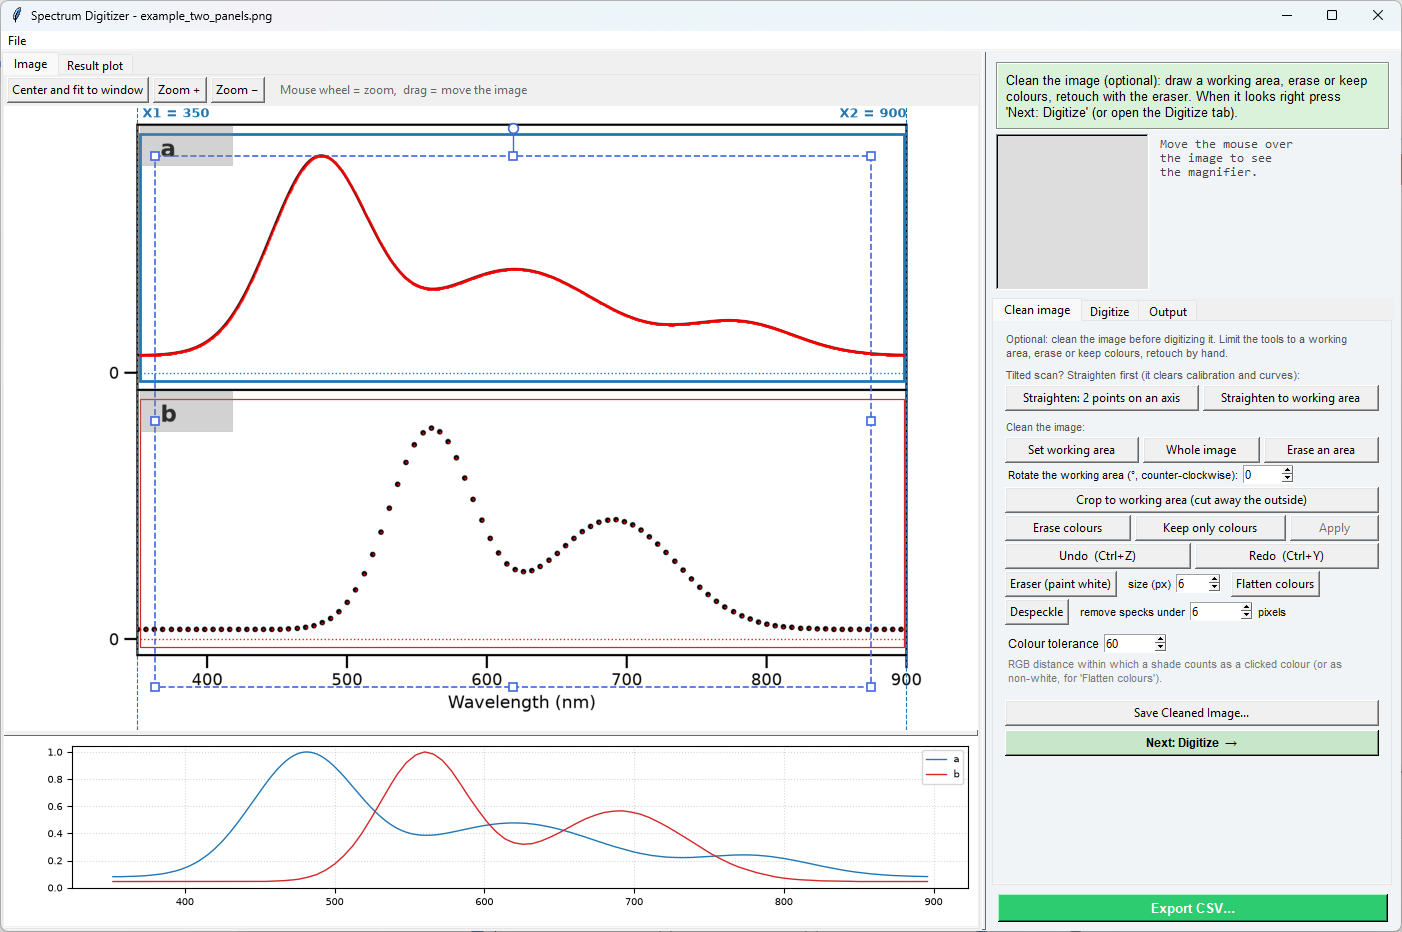
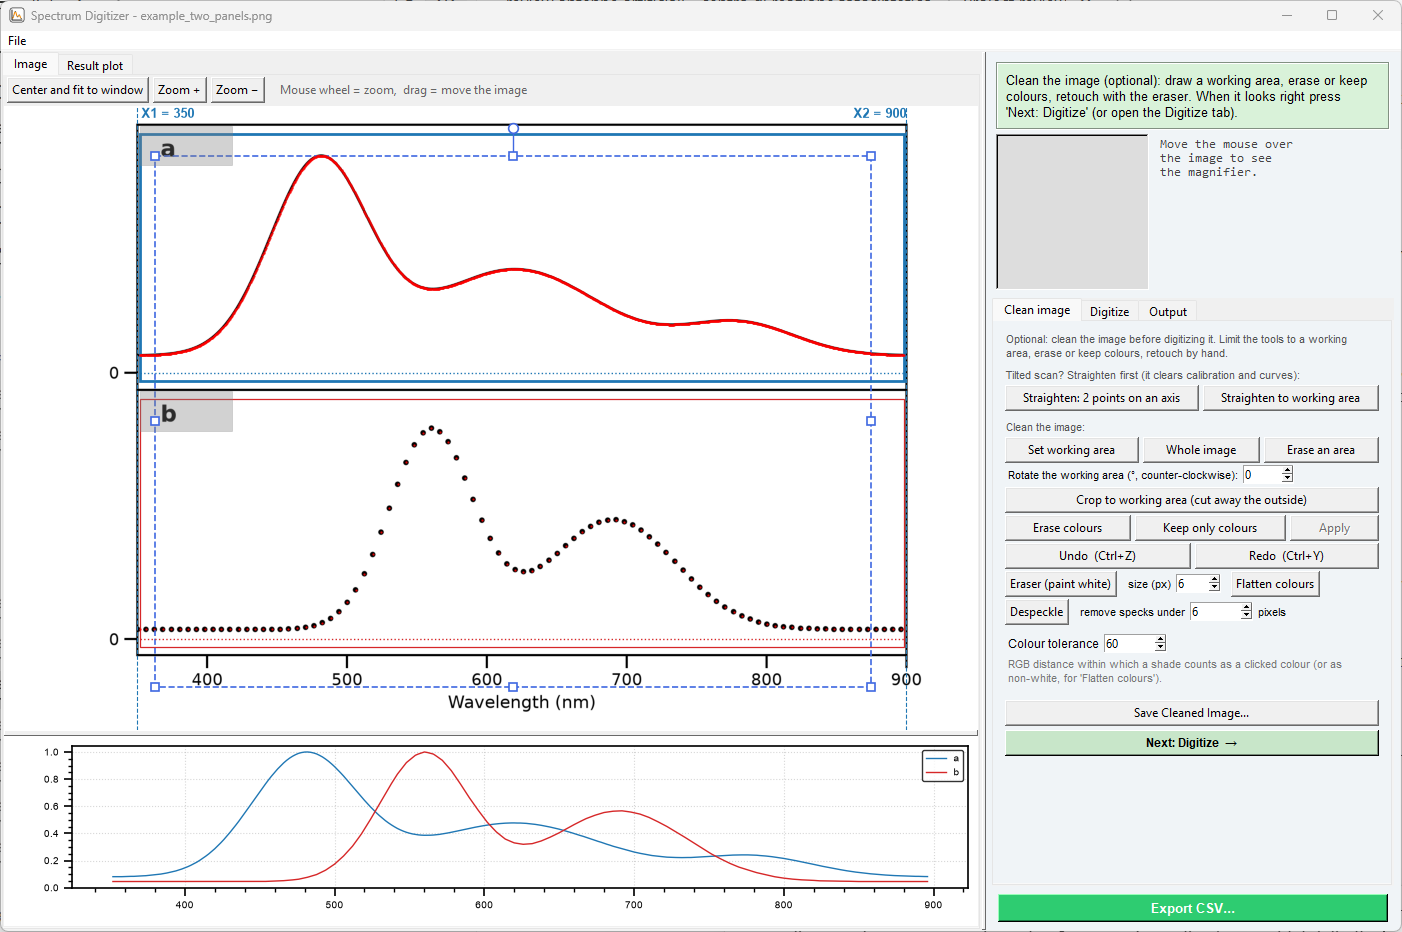
Use PlotStyleKit through its integration module: Origin look, Save Figure, Edit Figure
- The program carries the common PlotStyleKit bootstrap; when PlotStyleKit is not found it
  warns and asks for the folder, with a Cancel that is remembered; File > PlotStyleKit...
  changes it later
- With it: the result plot has the Origin look, and File > Save Figure Image (PNG, PDF, SVG),
  Save Figure (pickle) and Edit Figure work on a title-less figure at 9 x 6.75 cm
- Without it: plain matplotlib look, the figure saved as drawn, Edit Figure offers to locate
  PlotStyleKit
- Screenshots refreshed (icon in the title bar, styled result plot); README and CLAUDE.md updated

diff --git a/README.md b/README.md
@@ -71,6 +71,15 @@ can be placed precisely (it also shows the pixel and, once calibrated, the X/Y v
   - *Erase an area* — drag a box over a legend or a panel letter: it is painted white for all curves
     (*Undo* restores it). Do this first, so the legend is never mistaken for part of a spectrum.
 - **Tab 'Digitize'.** The steps below.
+- **Figures for a paper (PlotStyleKit).** The result plot has the Origin look of
+  [PlotStyleKit](https://github.com/milanone/PlotStyleKit) (Arial, full box, outward ticks, no grid) and the File menu has
+  *Save Figure Image (PNG, PDF, SVG)...*, *Save Figure (pickle)...* and *Edit Figure...*: the figure is redrawn at the
+  publication size (9 x 6.75 cm, 300 dpi) without a title and handed to the PlotStyleKit editor or to a file. PlotStyleKit is
+  optional: the program looks for it next to itself (`../PlotStyleKit`), in `~/progetti/PlotStyleKit`, in the folder the
+  environment variable `PLOTSTYLEKIT` names, or in the folder you chose the last time. If it is not found the program says so
+  at start and asks for the folder, with *Cancel* for going without (it will not ask again; *File > PlotStyleKit...* changes
+  that). Without it the plot keeps a plain matplotlib look, *Save Figure* writes the figure as drawn (no preset size, no
+  restyling), and *Edit Figure* offers to locate PlotStyleKit.
 - **Check grid.** In the Digitize tab, *Show check grid on the image* draws round-valued lines of the calibration over the image (X always, Y when it is calibrated), labelled with their values: if they do not meet the plot's own ticks, the calibration is off.
 - **1. Axes.** Press *Pick* next to *X point 1*, click a tick of known value, then type its value in the
   box; do the same for *X point 2* on a tick far from the first. The Y axis is optional (see below).

diff --git a/CLAUDE.md b/CLAUDE.md
@@ -161,7 +161,16 @@ Run: `pythonw SpectrumDigitizer.pyw [image]`. Tests: `python -m unittest discove
   calibration lines, small red points, toggled by a checkbox).
 - **CSV format** is the one LabSpectrumManager's generic reader expects (`pd.read_csv(path,
   index_col=0)`: comma, X first). Do not switch to `;` without changing that reader.
-- **PlotStyleKit is not used:** the figure is a working view of an image, not a publication plot.
+- **PlotStyleKit** (the first host of its integration module `plotstylekit.py`, API 1; see that repo's README): the file carries the
+  common bootstrap text between the `PlotStyleKit bootstrap` comment lines (generated from PlotStyleKit's README: change it there,
+  not here) and `PSK_MIN_API`. `psk` is the module or None, `PSK_PROBLEM` says why. At start, if `psk is None` and the user has not
+  declined (`_psk_config()['declined']`), `_offer_plotstylekit()` asks for the folder after 400 ms; File > PlotStyleKit...
+  (`plotstylekit_dialog()`) changes it later; `_adopt_plotstylekit()` starts it without restarting. With it, the big result plot
+  gets `psk.style()` + `psk.screen_fonts()` in `_plot_result` (the preview and the on-screen curve colours stay `PALETTE`, to match
+  the boxes on the image), and `_result_figure()` builds a separate title-less `Figure` for `save_figure_image()` /
+  `save_figure_pickle()` / `edit_figure()`, which go through `psk.*_dialog()` (publication copy at 9 x 6.75 cm). **Fallbacks without
+  it**: plain look, plain `savefig` / pickle of that figure, and 'Edit Figure' offers to locate PlotStyleKit. Verified by driving all
+  of this with patched dialogs (found, not found + chosen, cancelled + remembered, wrong folder, other copy).
 
 ## Icon
 
